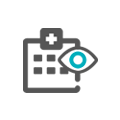
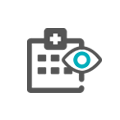
sec 01 size modi / background img

diff --git a/index.html b/index.html
@@ -102,7 +102,6 @@
                             진료과/센터로<br>
                         <span>의료진 찾기</span>
                         </h5>
-                        <img src="images/bg_docSearch.png" alt="의사">
                     </a>
                 </li>
                 <li>
@@ -111,7 +110,6 @@
                             본인/대리/비회원<br>
                             <span>진료예약</span>
                         </h5>
-                        <img src="images/bg_reserve.png" alt="달력">
                     </a>
                 </li>
                 <li>
@@ -119,7 +117,6 @@
                         <h5>
                             예약조회
                         </h5>
-                        <img src="images/bg_schedule.png" alt="스케쥴표">
                     </a>
                 </li>
                 <li>
@@ -127,7 +124,6 @@
                         <h5>
                             건강검진 예약상담
                         </h5>
-                        <img src="images/bg_health.png" alt="문진표와 의사">
                     </a>
                 </li>
             </ul>

diff --git a/css/main.css b/css/main.css
@@ -203,7 +203,9 @@ a img{
     margin-right: 2%;
     padding: 30px 10px 30px 10px;
     box-sizing: border-box;
-    background: #4bb8bd;
+    background: #4bb8bd url("../images/bg_docSearch.png") no-repeat;
+    background-size: 60px;
+    background-position: 90% 80%;
 }
 .sec_01 li:nth-child(2n){
     margin-right: 0;
@@ -220,18 +222,23 @@ a img{
     color: #fff;
 }
 .sec_01 li:nth-child(2){
-    background: #ff912f;
+    background: #ff912f url("../images/bg_reserve.png") no-repeat;
+    background-size: 60px;
+    background-position: 90% 80%;
 }
 .sec_01 li:nth-child(3){
-    background: #539ed7;
+    background: #539ed7 url("../images/bg_schedule.png") no-repeat;
+    background-size: 60px;
+    background-position: 90% 80%;
 }
 .sec_01 li:last-child{
-    background: #8eca36;
+    background: #8eca36  url("../images/bg_health.png") no-repeat;
+    background-size: 60px;
+    background-position: 90% 80%;
 }
 .sec_01 li a h5{
     font-size: 15px;
     float: left;
-    margin-top: 10px;
 }
 .sec_01 li a h5 span{
     font-weight: bold;
